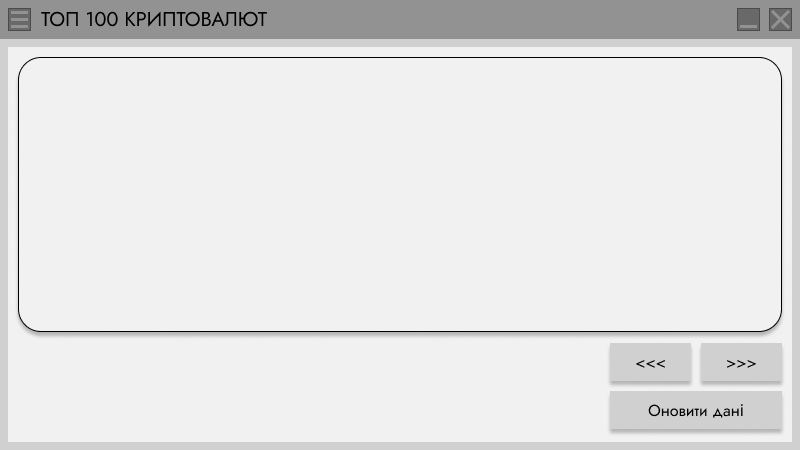
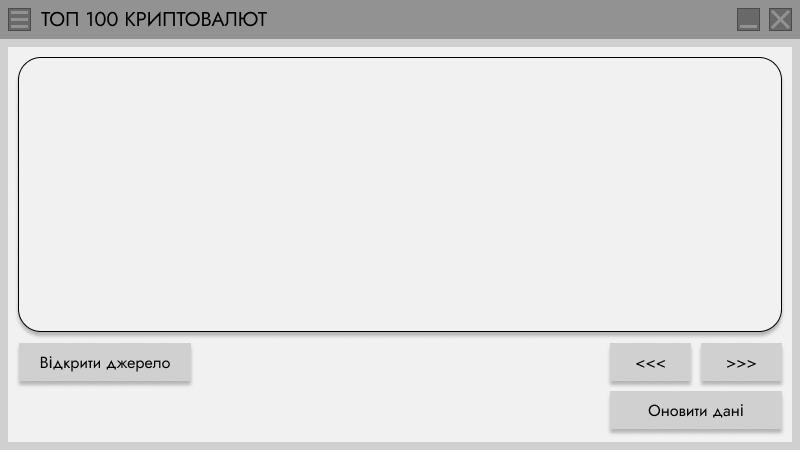
TopListWindow has been updated

Changed region(s): [[0.0, 0.7467, 0.25, 0.8711]]

diff --git a/Views/TopListWindow.xaml b/Views/TopListWindow.xaml
@@ -13,5 +13,36 @@
         <Button x:Name="btnHide" Margin="737,8,40,419" Opacity="0" Click="btnHide_Click"/>
         <Button x:Name="btnClose" Margin="769,8,8,419" Opacity="0" Click="btnClose_Click"/>
         <Button x:Name="btnMenu" Margin="8,8,769,419" Opacity="0" Click="btnMenu_Click" />
+
+        <Label x:Name="lbCurrencyName" Content="Bitcoin" Margin="275,58,275,345" FontSize="30" HorizontalContentAlignment="Center" VerticalContentAlignment="Center" FontWeight="Bold"/>
+        <Label x:Name="lbCurrencySymbol" Content="BTC" Margin="275,105,275,305" FontSize="20" HorizontalContentAlignment="Center" VerticalContentAlignment="Top"/>
+
+        <Label Content="Ціна" HorizontalContentAlignment="Left" VerticalContentAlignment="Bottom" Margin="25,156,400,259" FontSize="16"/>
+        <Label x:Name="lbCurrencyPrice" Content="$11111111.1111111111111" VerticalContentAlignment="Center" Margin="25,176,400,226" FontSize="20"/>
+
+        <Label Content="Кількість на ринку" HorizontalContentAlignment="Left" VerticalContentAlignment="Bottom" Margin="25,210,400,206" FontSize="16"/>
+        <Label x:Name="lbCurrencySupply" Content="$11111111.11" VerticalContentAlignment="Center" Margin="25,228,400,174" FontSize="20"/>
+
+        <Label Content="Максимальна кількість на ринку" HorizontalContentAlignment="Left" VerticalContentAlignment="Bottom" Margin="25,262,400,154" FontSize="16"/>
+        <Label x:Name="lbCurrencyMaxSupply" Content="$11111111.11" VerticalContentAlignment="Center" Margin="25,279,400,123" FontSize="20"/>
+
+        <Label Content="Зміна за 24 години" HorizontalContentAlignment="Left" VerticalContentAlignment="Bottom" Margin="400,156,25,259" FontSize="16"/>
+        <Label x:Name="lbCurrencyChangePercent" Content="$11111111.11111111" VerticalContentAlignment="Center" Margin="400,176,20,226" FontSize="20"/>
+
+        <Label Content="Vwap24" HorizontalContentAlignment="Left" VerticalContentAlignment="Bottom" Margin="400,210,26,205" FontSize="16"/>
+        <Label x:Name="lbCurrencyVwap24Hr" Content="$11111111.11111111" VerticalContentAlignment="Center" Margin="398,228,22,174" FontSize="20"/>
+
+        <Label x:Name="lbDateTime" Content="Інформацію оновлено станом на: " Margin="20,391,190,22" FontSize="20"/>
+
+        <Button x:Name="btnRefresh" Opacity="0" Margin="610,391,18,20" Click="btnRefresh_Click"/>
+        <Button x:Name="btnShowSource" Opacity="0" Margin="19,343,609,68" Click="btnShowSource_Click" />
+
+        <Grid Name="MenuPanel" Width="0" HorizontalAlignment="Left" Margin="0,39,0,0">
+            <Image Width="200" Height="411" HorizontalAlignment="Left" Source="../Resources/Images/MenuTab.png"/>
+            <Button x:Name="btnMenuHome" Margin="14,15,14,358" Opacity="0" Click="btnMenuHome_Click"/>
+            <Button x:Name="btnMenuTop100" Margin="14,67,14,306" Opacity="0" Click="btnMenuTop100_Click"/>
+            <Button x:Name="btnMenuSearch" Margin="14,119,14,254" Opacity="0"/>
+            <Button x:Name="btnMenuSettings" Margin="14,171,14,202" Opacity="0"/>
+        </Grid>
     </Grid>
 </Window>

diff --git a/Views/TopListWindow.xaml.cs b/Views/TopListWindow.xaml.cs
@@ -1,6 +1,10 @@
-using System;
+using CoinView.Models;
+using CoinView.Services;
+using System;
 using System.Collections.Generic;
+using System.Diagnostics;
 using System.Linq;
+using System.Security.Policy;
 using System.Text;
 using System.Threading.Tasks;
 using System.Windows;
@@ -9,6 +13,7 @@ using System.Windows.Data;
 using System.Windows.Documents;
 using System.Windows.Input;
 using System.Windows.Media;
+using System.Windows.Media.Animation;
 using System.Windows.Media.Imaging;
 using System.Windows.Shapes;
 
@@ -19,9 +24,15 @@ namespace CoinView.Views
 	/// </summary>
 	public partial class TopListWindow : Window
 	{
+		private readonly string apiUrl = "https://api.coincap.io/v2/assets";
+		private readonly string filePath = "data.json";
+		private CurrencyRoot currencyRoot = new CurrencyRoot();
+		private int index = 0;
+
 		public TopListWindow()
 		{
 			InitializeComponent();
+			UpdateCurrencyData();
 		}
 
 		private void Window_MouseLeftButtonDown(object sender, MouseButtonEventArgs e)
@@ -34,17 +45,89 @@ namespace CoinView.Views
 
 		private void btnHide_Click(object sender, RoutedEventArgs e)
 		{
-
+			this.WindowState = WindowState.Minimized;
 		}
 
 		private void btnClose_Click(object sender, RoutedEventArgs e)
 		{
-
+			this.Close();
 		}
 
 		private void btnMenu_Click(object sender, RoutedEventArgs e)
 		{
+			DoubleAnimation animation = new DoubleAnimation();
 
+			if (MenuPanel.Width == 0)
+			{
+				animation.To = 200;
+			}
+			else
+			{
+				animation.To = 0;
+			}
+
+			animation.Duration = TimeSpan.FromSeconds(0.2);
+			MenuPanel.BeginAnimation(Grid.WidthProperty, animation);
+		}
+
+		private void btnMenuHome_Click(object sender, RoutedEventArgs e)
+		{
+			var homeWindow = new HomeWindow();
+			homeWindow.Left = this.Left;
+			homeWindow.Top = this.Top;
+			homeWindow.Show();
+			Close();
+		}
+
+		private void btnMenuTop100_Click(object sender, RoutedEventArgs e)
+		{
+			var topListWindow = new TopListWindow();
+			topListWindow.Left = this.Left;
+			topListWindow.Top = this.Top;
+			topListWindow.Show();
+			Close();
+		}
+
+		private void btnRefresh_Click(object sender, RoutedEventArgs e)
+		{
+			UpdateCurrencyData();
+		}
+		private void btnShowSource_Click(object sender, RoutedEventArgs e)
+		{
+			
+		}
+
+		private async void UpdateCurrencyData()
+		{
+			ApiService apiService = new ApiService();
+			await apiService.GetCrpytoDataAsync(apiUrl, filePath);
+			currencyRoot = apiService.GetDeserializedData(filePath);
+
+			for (int i = 0; i < currencyRoot.Data.Count; i++)
+			{
+				lbCurrencyName.Content = currencyRoot.Data[i].Name;
+				lbCurrencySymbol.Content = currencyRoot.Data[i].Symbol;
+				
+				lbCurrencyPrice.Content = $"${currencyRoot.Data[i].PriceUsd}";
+				lbCurrencySupply.Content = $"${currencyRoot.Data[i].Supply.ToString("0.00")}";
+				lbCurrencyMaxSupply.Content = $"${currencyRoot.Data[i].MaxSupply.ToString("0.00")}";
+
+
+				if (currencyRoot.Data[i].ChangePercent24Hr > 0)
+				{
+					lbCurrencyChangePercent.Foreground = new SolidColorBrush(Colors.Green);
+					lbCurrencyChangePercent.Content = $"↑ {currencyRoot.Data[i].ChangePercent24Hr}%";
+				}
+				else
+				{
+					lbCurrencyChangePercent.Foreground = new SolidColorBrush(Colors.Red);
+					lbCurrencyChangePercent.Content = $"↓ {currencyRoot.Data[i].ChangePercent24Hr}%";
+				}
+
+				lbCurrencyVwap24Hr.Content = $"${currencyRoot.Data[i].Vwap24Hr}";
+			}
+
+			lbDateTime.Content = $"Інформацію оновлено станом на: {currencyRoot.DateTime}";
 		}
 	}
 }

diff --git a/Views/HomeWindow.xaml.cs b/Views/HomeWindow.xaml.cs
@@ -31,6 +31,14 @@ namespace CoinView.Views
 			UpdateCurrencyData();
 		}
 
+		private void Window_MouseLeftButtonDown(object sender, MouseButtonEventArgs e)
+		{
+			if (e.LeftButton == MouseButtonState.Pressed)
+			{
+				DragMove();
+			}
+		}
+
 		private void btnHide_Click(object sender, RoutedEventArgs e)
 		{
 			this.WindowState = WindowState.Minimized;
@@ -39,14 +47,6 @@ namespace CoinView.Views
 		private void btnClose_Click(object sender, RoutedEventArgs e)
 		{
 			this.Close();
-		}
-
-		private void Window_MouseLeftButtonDown(object sender, MouseButtonEventArgs e)
-		{
-			if (e.LeftButton == MouseButtonState.Pressed)
-			{
-				DragMove();
-			}
 		}
 
 		private void btnMenu_Click(object sender, RoutedEventArgs e)
@@ -65,6 +65,20 @@ namespace CoinView.Views
 			animation.Duration = TimeSpan.FromSeconds(0.2);
 			MenuPanel.BeginAnimation(Grid.WidthProperty, animation);
 		}
+
+		private void btnMenuHome_Click(object sender, RoutedEventArgs e)
+		{
+			UpdateCurrencyData();
+		}
+
+		private void btnMenuTop100_Click(object sender, RoutedEventArgs e)
+		{
+			var topListWindow = new TopListWindow();
+			topListWindow.Left = this.Left;
+			topListWindow.Top = this.Top;
+			topListWindow.Show();
+			Close();
+        }
 
 		private void FillInList() 
 		{
@@ -159,19 +173,5 @@ namespace CoinView.Views
 		{
 			UpdateCurrencyData();
 		}
-
-		private void btnMenuHome_Click(object sender, RoutedEventArgs e)
-		{
-			UpdateCurrencyData();
-		}
-
-		private void btnMenuTop100_Click(object sender, RoutedEventArgs e)
-		{
-			var topListWindow = new TopListWindow();
-			topListWindow.Left = this.Left;
-			topListWindow.Top = this.Top;
-			topListWindow.Show();
-			Close();
-        }
     }
 }

diff --git a/Models/CurrencyData.cs b/Models/CurrencyData.cs
@@ -1,9 +1,4 @@
 using Newtonsoft.Json;
-using System;
-using System.Collections.Generic;
-using System.Linq;
-using System.Text;
-using System.Threading.Tasks;
 
 namespace CoinView.Models
 {
@@ -15,7 +10,7 @@ namespace CoinView.Models
 		public string Name { get; set; }
 		public decimal Supply { get; set; }
 		[JsonProperty(NullValueHandling = NullValueHandling.Ignore)]
-		public decimal MaxSuplly { get; set; }
+		public decimal MaxSupply { get; set; }
 		[JsonProperty(NullValueHandling = NullValueHandling.Ignore)]
 		public decimal MarketCapUsd { get; set; }
 		[JsonProperty(NullValueHandling = NullValueHandling.Ignore)]
